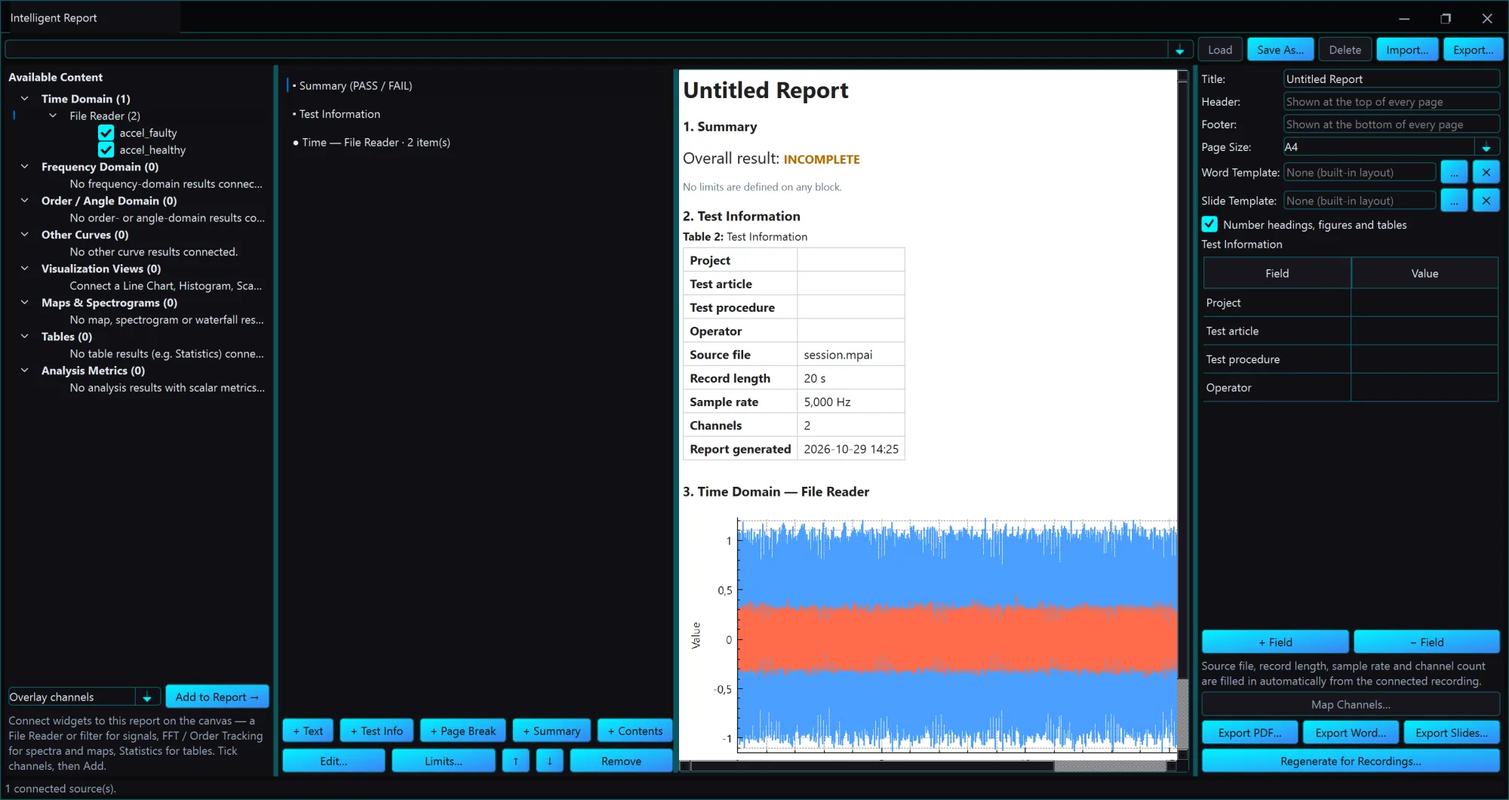
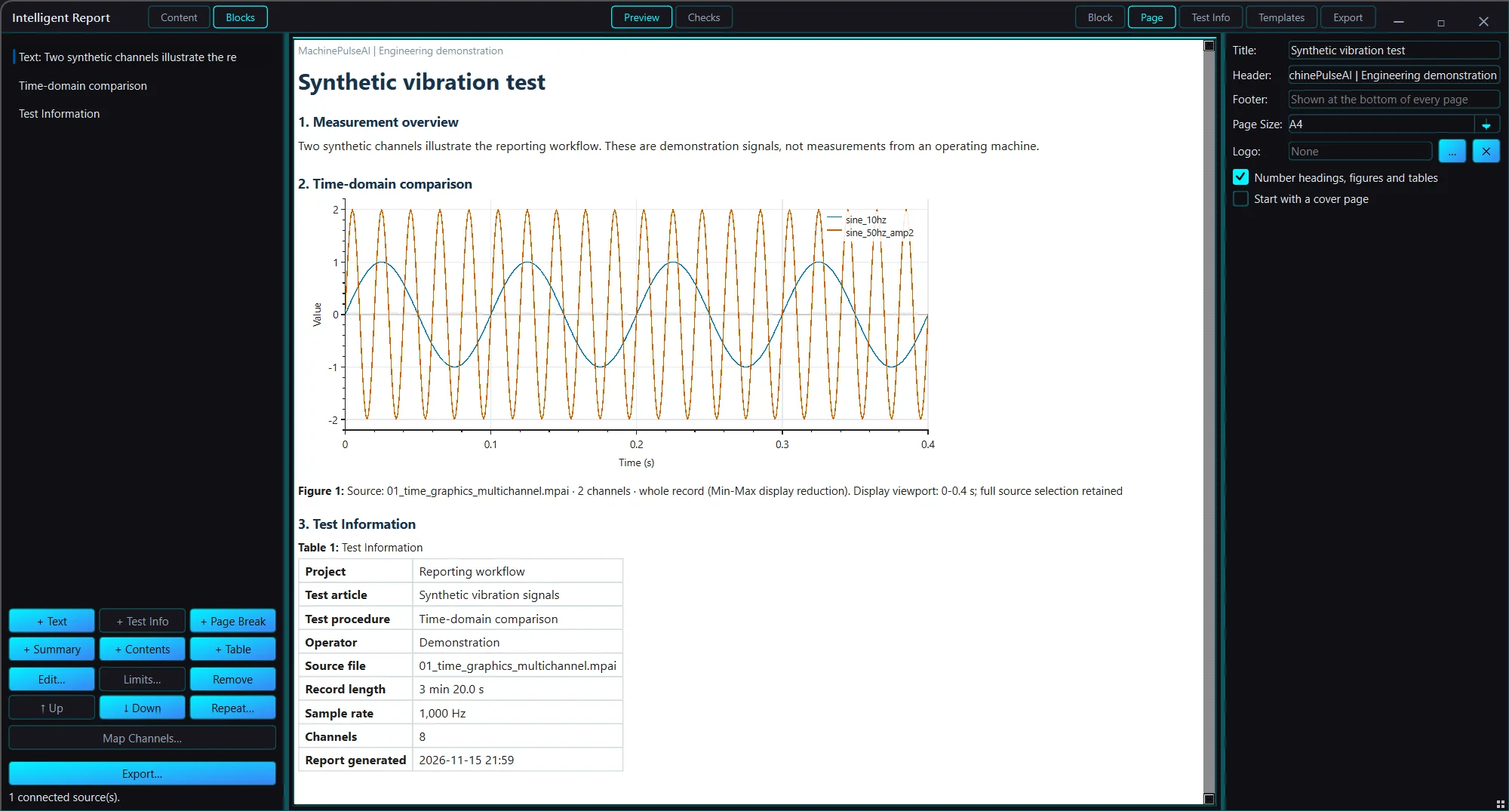
Refresh Report interface imagery and surface case studies

diff --git a/src/data/learning/tours/views.js b/src/data/learning/tours/views.js
@@ -449,55 +449,91 @@ export default {
     intelligent_report: [
         {
             id: 'report',
-            tab: ['Report editor', 'Rapor editörü'],
+            tab: ['Blocks and Page', 'Blocks ve Page'],
             summary: [
-                'A first report built from a File Reader with two accelerometer channels: content on the left, structure in the middle, live preview, and page settings on the right.',
-                'İki ivmeölçer kanallı bir File Reader’dan kurulmuş ilk rapor: solda içerik, ortada yapı, canlı önizleme ve sağda sayfa ayarları.',
+                'The current three-region editor: Blocks on the left, Preview in the center and Page on the right. The report compares two synthetic channels over a 0–0.4 s display window; the connected recording remains the source.',
+                'Güncel üç bölmeli editör: solda Blocks, ortada Preview, sağda Page. Rapor iki sentetik kanalı 0–0,4 s görüntüleme aralığında karşılaştırır; bağlı kayıt kaynak olarak korunur.',
+            ],
+            points: [
+                pt('structure', ['Blocks', 'Blocks (bloklar)'], [
+                    'The report in page order: a measurement overview, the time-domain comparison and Test Information. Select a block to edit it; drag rows or use Up and Down to reorder them.',
+                    'Sayfa sırasıyla ölçüm özeti, zaman alanı karşılaştırması ve Test Information. Düzenlemek için bir blok seçin; sıralamak için satırları sürükleyin veya Up ve Down düğmelerini kullanın.',
+                ]),
+                pt('blocks', ['Block buttons', 'Blok düğmeleri'], [
+                    'Add text, test information, a page break, a summary, contents or a table. The Block tab on the right edits the selected block; Repeat reuses a block for other channels.',
+                    'Metin, test bilgisi, sayfa sonu, özet, içindekiler veya tablo ekleyin. Sağdaki Block sekmesi seçili bloğu düzenler; Repeat bir bloğu başka kanallar için tekrarlar.',
+                ]),
+                pt('limits', ['Limits', 'Sınırlar'], [
+                    'Select a compatible data block before defining an acceptance limit or spectral mask. Checks beside Preview lists the resulting verdicts and unresolved blocks; this demonstration has no acceptance limits.',
+                    'Kabul sınırı veya spektral maske tanımlamadan önce uygun bir veri bloğu seçin. Preview yanındaki Checks, sonuçları ve çözülemeyen blokları listeler; bu gösterimde kabul sınırı tanımlı değildir.',
+                ]),
+                pt('preview', ['Preview', 'Önizleme'], [
+                    'The linked time plot shows the 10 Hz and 50 Hz demonstration channels. Click a report block to select it; double-click a figure to edit its presentation. Preview and Checks share the center region.',
+                    'Bağlı zaman grafiği, 10 Hz ve 50 Hz gösterim kanallarını gösterir. Seçmek için bir rapor bloğuna tıklayın; sunumunu düzenlemek için şekle çift tıklayın. Preview ve Checks orta bölmeyi paylaşır.',
+                ]),
+                pt('title', ['Page settings', 'Sayfa ayarları'], [
+                    'Page contains the title, running header and footer, paper size, logo, numbering and optional cover page. Test Info, Templates and Export each have their own toolbar tab.',
+                    'Page; başlığı, üst ve alt bilgiyi, kâğıt boyutunu, logoyu, numaralandırmayı ve isteğe bağlı kapak sayfasını içerir. Test Info, Templates ve Export araç çubuğunda ayrı sekmelerdir.',
+                ]),
+            ],
+        },
+        {
+            id: 'content', tab: ['Content', 'Content (içerik)'],
+            summary: [
+                'Content replaces Blocks in the left region while the report preview stays visible.',
+                'Sol bölmede Blocks yerine Content açılır; rapor önizlemesi görünür kalır.',
             ],
             points: [
                 pt('content', ['Available Content', 'Mevcut içerik'], [
-                    'Everything connected to the report, grouped by kind. Here only Time Domain has entries; the other groups say what to connect to fill them.',
-                    'Rapora bağlı her şey, türüne göre gruplanmış. Burada yalnızca Time Domain’de girdi var; diğer gruplar onları doldurmak için neyin bağlanacağını söylüyor.',
+                    'Connected results are grouped by kind. Here Time Domain contains the File Reader channels; empty groups explain which upstream tool to connect. Use the search field to find an item.',
+                    'Bağlı sonuçlar türüne göre gruplanır. Burada Time Domain, File Reader kanallarını içerir; boş gruplar bağlanması gereken aracı açıklar. Bir öğeyi bulmak için arama alanını kullanın.',
                 ]),
                 pt('add', ['Add to Report', 'Rapora ekle'], [
-                    'Adds the ticked items. With Overlay channels they share one figure.',
-                    'İşaretli öğeleri ekler. Overlay channels ile tek bir şekli paylaşırlar.',
+                    'Tick channels, choose Overlay channels or separate figures, then Add to Report. Add All Connected builds a first draft from all connected sources.',
+                    'Kanalları işaretleyin, Overlay channels veya ayrı şekilleri seçip Add to Report’a basın. Add All Connected tüm bağlı kaynaklardan ilk taslağı oluşturur.',
                 ]),
-                pt('structure', ['Structure', 'Yapı'], [
-                    'The blocks in page order: Summary, Test Information and one time figure with two items.',
-                    'Sayfa sırasına göre bloklar: Summary, Test Information ve iki öğeli bir zaman şekli.',
-                ]),
-                pt('blocks', ['Block buttons', 'Blok düğmeleri'], [
-                    'Add text, test information, a page break, a summary or a table of contents.',
-                    'Metin, test bilgisi, sayfa sonu, özet veya içindekiler tablosu ekleyin.',
-                ]),
-                pt('limits', ['Limits', 'Sınırlar'], [
-                    'Gives the selected block a requirement. Without any limits the summary stays INCOMPLETE, as in the preview.',
-                    'Seçili bloğa bir gereksinim verir. Hiç sınır yoksa özet önizlemedeki gibi INCOMPLETE kalır.',
-                ]),
-                pt('preview', ['Preview', 'Önizleme'], [
-                    'The report as it will be exported: numbered sections, “Table 2: Test Information” and the time figure.',
-                    'Raporun dışa aktarılacağı hali: numaralı bölümler, “Table 2: Test Information” ve zaman şekli.',
-                ]),
-                pt('title', ['Title, header, footer', 'Başlık, üst ve alt bilgi'], [
-                    'Text printed on the title and on every page; Page Size sets A4 or another format.',
-                    'Başlığa ve her sayfaya basılan metin; Page Size A4 veya başka bir biçim belirler.',
-                ]),
-                pt('templates', ['Word and slide templates', 'Word ve sunu şablonları'], [
-                    'Apply your company layout to the Word and slide exports.',
-                    'Word ve sunu çıktılarına şirket yerleşiminizi uygulayın.',
-                ]),
+            ],
+        },
+        {
+            id: 'test_info', tab: ['Test Info', 'Test Info (test bilgisi)'],
+            summary: [
+                'Test Info has a separate settings page; its fields appear in the report’s Test Information table.',
+                'Test Info ayrı bir ayar sayfasıdır; alanları raporun Test Information tablosunda görünür.',
+            ],
+            points: [
                 pt('testinfo', ['Test Information', 'Test bilgisi'], [
-                    'Type project, test article, procedure and operator. Source file, record length (20 s), sample rate (5,000 Hz) and channel count are filled in automatically.',
-                    'Proje, test parçası, prosedür ve operatörü yazın. Kaynak dosya, kayıt uzunluğu (20 s), örnekleme hızı (5.000 Hz) ve kanal sayısı otomatik doldurulur.',
+                    'Enter the project, test article, procedure and operator. The connected demonstration recording supplies the source file, 3 min 20 s duration, 1,000 Hz sample rate and eight-channel count automatically.',
+                    'Proje, test parçası, prosedür ve operatörü girin. Bağlı gösterim kaydı; kaynak dosyayı, 3 dk 20 s süreyi, 1.000 Hz örnekleme hızını ve sekiz kanal bilgisini otomatik sağlar.',
                 ]),
-                pt('exports', ['Export PDF, Word, Slides', 'PDF, Word, Slides dışa aktarma'], [
-                    'Writes the report in the chosen format.',
-                    'Raporu seçilen biçimde yazar.',
+            ],
+        },
+        {
+            id: 'templates', tab: ['Templates', 'Templates (şablonlar)'],
+            summary: [
+                'Reusable report layouts have their own Templates page, separate from page settings and export options.',
+                'Yeniden kullanılabilir rapor yerleşimleri, sayfa ayarları ve çıktı seçeneklerinden ayrı Templates sayfasındadır.',
+            ],
+            points: [
+                pt('templates', ['Report templates', 'Rapor şablonları'], [
+                    'Save the current layout as a named template, load an existing one or exchange .mprt template files with Import and Export. Word and slide document templates are chosen on Export.',
+                    'Mevcut yerleşimi adlandırılmış şablon olarak kaydedin, kayıtlı bir şablonu açın veya Import ve Export ile .mprt şablonlarını paylaşın. Word ve sunu belge şablonları Export sayfasında seçilir.',
+                ]),
+            ],
+        },
+        {
+            id: 'export', tab: ['Export', 'Export (dışa aktarma)'],
+            summary: [
+                'Export brings output format, company document templates and regeneration together on the right.',
+                'Export; çıktı biçimini, şirket belge şablonlarını ve yeniden üretmeyi sağ bölmede toplar.',
+            ],
+            points: [
+                pt('exports', ['Export report', 'Raporu dışa aktar'], [
+                    'Export opens the format and destination chooser for PDF, Word or PowerPoint. The Word Template and Slide Template fields below it apply a company document layout; editable PowerPoint charts are optional.',
+                    'Export; PDF, Word veya PowerPoint için biçim ve hedef seçimini açar. Altındaki Word Template ve Slide Template alanları şirket belge yerleşimini uygular; düzenlenebilir PowerPoint grafikleri isteğe bağlıdır.',
                 ]),
                 pt('regenerate', ['Regenerate for Recordings', 'Kayıtlar için yeniden üret'], [
-                    'Produces the same report for other recordings; Map Channels says which channel takes which role in each.',
-                    'Aynı raporu diğer kayıtlar için üretir; Map Channels her birinde hangi kanalın hangi rolü aldığını söyler.',
+                    'Reuse the report layout for other recordings. Check channel mapping before generating the batch, especially when channel names differ.',
+                    'Rapor yerleşimini diğer kayıtlar için kullanın. Özellikle kanal adları farklıysa toplu üretimden önce kanal eşlemesini kontrol edin.',
                 ]),
             ],
         },

diff --git a/src/data/learning/workflow.js b/src/data/learning/workflow.js
@@ -28,21 +28,21 @@ const records = [
                 'Groups the connected results: Time Domain, Frequency Domain, Order / Angle Domain, Other Curves, Visualization Views, Maps & Spectrograms, Tables and Analysis Metrics. A group shows (0) and a hint when nothing of that kind is connected. Overlay channels puts the ticked channels into one figure instead of one figure each.',
                 'Bağlı sonuçları gruplar: Time Domain, Frequency Domain, Order / Angle Domain, Other Curves, Visualization Views, Maps & Spectrograms, Tables ve Analysis Metrics. O türden hiçbir şey bağlı değilse grup (0) ve bir ipucu gösterir. Overlay channels işaretli kanalları her biri ayrı bir şekil yerine tek bir şekle koyar.'],
             ['Report structure', 'Rapor yapısı',
-                'The list of blocks in page order.',
-                'Sayfa sırasına göre blok listesi.', [
+                'The Blocks tab lists the report in page order. Select a block to edit it on the right under Block, or double-click its figure in Preview.',
+                'Blocks sekmesi raporu sayfa sırasıyla listeler. Bir bloğu seçip sağdaki Block bölümünde düzenleyin veya Preview içindeki şekline çift tıklayın.', [
                     ['+ Text, + Test Info, + Summary, + Contents, + Page Break', '+ Text, + Test Info, + Summary, + Contents, + Page Break', 'Add a free text block, the test information table, the pass/fail summary, a table of contents or a page break.', 'Serbest bir metin bloğu, test bilgi tablosu, geçti/kaldı özeti, içindekiler tablosu veya sayfa sonu ekler.'],
                     ['Edit, ↑ ↓, Remove', 'Edit, ↑ ↓, Remove', 'Change a block’s title or text, move it, or delete it.', 'Bir bloğun başlığını veya metnini değiştirin, taşıyın veya silin.'],
                     ['Limits', 'Limits (sınırlar)', 'Defines limits for a block, for example a maximum RMS or a spectral mask. Each block with limits gets a PASS or FAIL; blocks without limits leave the summary INCOMPLETE.', 'Bir blok için sınırlar tanımlar; örneğin en büyük RMS veya bir spektral maske. Sınırı olan her blok PASS veya FAIL alır; sınırı olmayan bloklar özeti INCOMPLETE bırakır.'],
                 ]],
             ['Page settings and templates', 'Sayfa ayarları ve şablonlar',
-                'Title, header, footer and page size. Word Template and Slide Template apply a company layout to the Word and slide exports. Number headings, figures and tables adds numbering such as “Table 2”.',
-                'Başlık, üst bilgi, alt bilgi ve sayfa boyutu. Word Template ve Slide Template, Word ve sunu çıktılarına bir şirket yerleşimi uygular. Number headings, figures and tables “Table 2” gibi numaralandırma ekler.'],
+                'Page holds the title, running header and footer, page size, logo, numbering and cover-page option. Templates saves, loads, imports and exports reusable report layouts. Company Word and slide templates are chosen on Export.',
+                'Page; başlığı, üst ve alt bilgiyi, sayfa boyutunu, logoyu, numaralandırmayı ve kapak seçeneğini içerir. Templates yeniden kullanılabilir rapor yerleşimlerini kaydeder, açar, içe ve dışa aktarır. Şirket Word ve sunu şablonları Export bölümünde seçilir.'],
             ['Test Information', 'Test Information (test bilgisi)',
                 'Project, test article, procedure and operator are typed in; source file, record length, sample rate and channel count are filled in automatically from the connected recording. + Field and − Field add or remove rows.',
                 'Proje, test parçası, prosedür ve operatör elle yazılır; kaynak dosya, kayıt uzunluğu, örnekleme hızı ve kanal sayısı bağlı kayıttan otomatik doldurulur. + Field ve − Field satır ekler veya siler.'],
             ['Export and Regenerate', 'Export ve Regenerate',
-                'Export PDF, Export Word and Export Slides write the report. Report layouts can be saved, loaded, imported and exported from the bar at the top. Regenerate for Recordings applies the same report to other recordings; Map Channels tells it which channel in each recording plays which role.',
-                'Export PDF, Export Word ve Export Slides raporu yazar. Rapor yerleşimleri üstteki çubuktan kaydedilebilir, yüklenebilir, içe ve dışa aktarılabilir. Regenerate for Recordings aynı raporu diğer kayıtlara uygular; Map Channels her kayıtta hangi kanalın hangi rolü oynadığını söyler.'],
+                'Export opens the format and destination chooser for PDF, Word or PowerPoint. The Export page also contains company document templates and Regenerate for Recordings. Check channel mapping before applying the same layout to other recordings.',
+                'Export; PDF, Word veya PowerPoint için biçim ve hedef seçimini açar. Export sayfası şirket belge şablonlarını ve Regenerate for Recordings seçeneğini de içerir. Aynı yerleşimi başka kayıtlara uygulamadan önce kanal eşlemesini kontrol edin.'],
         ],
         concepts: [
             ['A number needs its context', 'Bir sayı bağlamını ister', '“RMS 4.2” means nothing on its own. The same value with the sensor, the time interval, the statistic and the unit (“DE bearing, 10–20 s, RMS, 4.2 mm/s”) can be checked and compared. The automatic test information and figure captions carry most of that context for you.', '“RMS 4,2” tek başına hiçbir şey ifade etmez. Aynı değer sensör, zaman aralığı, istatistik ve birimle (“DE yatak, 10–20 s, RMS, 4,2 mm/s”) kontrol edilebilir ve karşılaştırılabilir. Otomatik test bilgisi ve şekil açıklamaları bu bağlamın çoğunu sizin için taşır.'],
@@ -59,9 +59,9 @@ const records = [
         outputs: [
             ['Test report', 'Test raporu', 'PDF, Word or slide file with numbered figures and tables, test information and a pass/fail summary.', 'Numaralı şekiller ve tablolar, test bilgisi ve geçti/kaldı özeti içeren PDF, Word veya sunu dosyası.'],
         ],
-        example: ['A first report from a File Reader', 'Bir File Reader’dan ilk rapor', 'Summary INCOMPLETE · 20 s · 5,000 Hz · 2 channels', 'Özet INCOMPLETE · 20 s · 5.000 Hz · 2 kanal',
-            'With only a File Reader connected, the report holds a summary, the test information and one time figure of accel_faulty and accel_healthy. The record length, sample rate and channel count were filled in automatically. The summary is INCOMPLETE because no block has limits yet: add an RMS limit to the time block and it becomes PASS or FAIL.',
-            'Yalnızca bir File Reader bağlıyken rapor bir özet, test bilgisi ve accel_faulty ile accel_healthy’nin bir zaman şeklini içeriyor. Kayıt uzunluğu, örnekleme hızı ve kanal sayısı otomatik dolduruldu. Özet INCOMPLETE, çünkü henüz hiçbir blokta sınır yok: zaman bloğuna bir RMS sınırı ekleyin, PASS veya FAIL olur.'],
+        example: ['A first report from a File Reader', 'Bir File Reader’dan ilk rapor', '200 s · 1,000 Hz · 8 source channels', '200 s · 1.000 Hz · 8 kaynak kanalı',
+            'The current screenshots use an eight-channel synthetic recording. The report contains an overview, an overlay of sine_10hz and sine_50hz_amp2, and Test Information populated from the connected source. The figure displays 0–0.4 s while retaining the full source selection. No acceptance limits or pass/fail claim have been added.',
+            'Güncel ekran görüntüleri sekiz kanallı sentetik bir kayıt kullanır. Rapor; açıklamayı, sine_10hz ve sine_50hz_amp2 kanallarının üst üste çizimini ve bağlı kayıttan doldurulan Test Information tablosunu içerir. Şekil 0–0,4 s aralığını gösterir; tam kaynak seçimi korunur. Kabul sınırı veya geçti/kaldı iddiası eklenmemiştir.'],
         pitfalls: [
             ['Reporting stale results', 'Eski sonuçları raporlamak', 'Recompute upstream before exporting; the report shows what the widgets hold now.', 'Dışa aktarmadan önce önceki düğümleri yeniden hesaplayın; rapor widget’ların şu anda tuttuğunu gösterir.'],
             ['Regenerating with wrong mapping', 'Yanlış eşlemeyle yeniden üretmek', 'A channel with the same name may sit at another location in another campaign. Check Map Channels.', 'Aynı adlı bir kanal başka bir kampanyada başka bir konumda olabilir. Map Channels’ı kontrol edin.'],

diff --git a/src/i18n/siteMarketing.js b/src/i18n/siteMarketing.js
@@ -60,18 +60,21 @@ export default {
                     summary: 'Use the native MPAI container for recorded measurements and project results.',
                     description: 'The native C++ engine handles numerical processing. Disk-backed MPAI access and Min-Max plots support exploring dense recordings while preserving signal peaks.',
                     detail: 'Phase 1 focuses on recorded-data analysis. Live acquisition is planned for a later phase.', link: 'Browse available modules',
+                    alt: 'MachinePulseAI canvas showing connected tools and the workflow activity panel.',
                 },
                 assistant: {
                     title: 'Add AI assistance when useful',
                     summary: 'Ask about methods or get help carrying out selected analysis steps.',
                     description: 'Ask mode explains methods and queries data without changing the workflow. Agent mode can help connect tools, run analyses and prepare reports.',
                     detail: 'AI is optional. Supported models vary in capability; inspect the resulting settings and evidence before using conclusions.',
+                    alt: 'The AI Assistant beside the connected analysis workflow, with Ask and Agent modes.',
                 },
                 privacy: {
                     title: 'Choose how your assistant connects',
                     summary: 'Choose supported local or cloud models for your deployment.',
                     description: 'Use a compatible model on your own computer or choose a supported cloud provider. Local Only Mode blocks cloud-provider connections.',
                     detail: 'Local models need a compatible runtime and sufficient memory. Cloud use depends on the chosen provider and its data policies.',
+                    alt: 'The assistant settings showing the local server address and Local Only Mode.',
                 },
             },
             workflow: {
@@ -202,18 +205,21 @@ export default {
                     summary: 'Kayıtlı ölçümler ve proje sonuçları için yerel MPAI konteynerini kullanın.',
                     description: 'Sayısal işlemleri yerel C++ motoru yürütür. Disk tabanlı MPAI erişimi ve Min-Max grafikler, sinyal tepelerini koruyarak yoğun kayıtları incelemenizi destekler.',
                     detail: 'İlk faz kayıtlı veri analizine odaklanır. Canlı veri toplama sonraki bir faz için planlanmaktadır.', link: 'Kullanılabilir modüllere göz atın',
+                    alt: 'Bağlı araçları ve iş akışı etkinlik panelini gösteren MachinePulseAI kanvası.',
                 },
                 assistant: {
                     title: 'Gerektiğinde AI desteği alın',
                     summary: 'Yöntemler hakkında soru sorun veya seçtiğiniz analiz adımlarını yürütürken destek alın.',
                     description: 'Ask modu, iş akışını değiştirmeden yöntemleri açıklar ve veriyi sorgular. Agent modu araçları bağlama, analizleri çalıştırma ve rapor hazırlama adımlarında yardımcı olabilir.',
                     detail: 'AI kullanımı isteğe bağlıdır. Desteklenen modellerin yetenekleri farklıdır; sonuçları kullanmadan önce ayarları ve dayanakları inceleyin.',
+                    alt: 'Bağlı analiz akışının yanında Ask ve Agent modlarıyla AI Assistant.',
                 },
                 privacy: {
                     title: 'Asistanın bağlantısını siz seçin',
                     summary: 'Kurulumunuza uygun, desteklenen yerel veya bulut modelini seçin.',
                     description: 'Kendi bilgisayarınızda uyumlu bir model kullanın veya desteklenen bulut sağlayıcılarından birini seçin. Local Only Mode, bulut sağlayıcı bağlantılarını engeller.',
                     detail: 'Yerel modeller uyumlu bir çalıştırma ortamı ve yeterli bellek gerektirir. Bulut kullanımı seçilen sağlayıcıya ve veri politikalarına bağlıdır.',
+                    alt: 'Yerel sunucu adresini ve Local Only Mode seçeneğini gösteren asistan ayarları.',
                 },
             },
             workflow: {

diff --git a/src/components/Features.jsx b/src/components/Features.jsx
@@ -4,14 +4,17 @@ import TourChapterLink from './TourChapterLink.jsx'
 import dataImage from '../assets/widget-tours/file-reader--csv.webp'
 import analysisImage from '../assets/widget-tours/fft-spectrum--compare.webp'
 import reportImage from '../assets/widget-tours/intelligent-report--report.webp'
+import workspaceImage from '../assets/product-workspace.webp'
+import assistantImage from '../assets/product-assistant.webp'
+import privacyImage from '../assets/product-model-privacy.webp'
 
 const FEATURES = [
     { id: 'prepare', image: dataImage, href: '/widgets/file-reader', chapterId: 'dataIO' },
     { id: 'analyze', image: analysisImage, href: '/widgets/fft-spectrum', chapterId: 'fft' },
     { id: 'report', image: reportImage, href: '/widgets/intelligent-report', chapterId: 'reports' },
-    { id: 'engine', href: '/widgets', chapterId: 'dataIO' },
-    { id: 'assistant', chapterId: 'assistant' },
-    { id: 'privacy', chapterId: 'assistant' },
+    { id: 'engine', image: workspaceImage, href: '/widgets', chapterId: 'dataIO' },
+    { id: 'assistant', image: assistantImage, chapterId: 'assistant' },
+    { id: 'privacy', image: privacyImage, chapterId: 'assistant' },
 ]
 
 /** Share concise homepage benefits and detailed, illustrated product capabilities. */
@@ -29,11 +32,9 @@ export default function Features({ compact = false }) {
                 <div className="grid grid-cols-1 md:grid-cols-3 gap-5">
                     {cards.map(({ id, image, href, chapterId }, index) => (
                         <article key={id} className="card-hover-glow rounded-2xl border border-white/10 bg-white/[0.02] overflow-hidden flex flex-col">
-                            {image && (
-                                <a href={image} target="_blank" rel="noreferrer" className="block focus-visible:outline focus-visible:outline-neon-cyan" aria-label={t('site.product.enlarge', { title: t(`site.product.cards.${id}.title`) })}>
-                                    <img src={image} alt={t(`site.product.cards.${id}.alt`)} loading="lazy" width="1200" height="800" className={`w-full ${compact ? 'aspect-video' : 'aspect-[3/2]'} object-contain bg-black`} />
-                                </a>
-                            )}
+                            <a href={image} target="_blank" rel="noreferrer" className="block focus-visible:outline focus-visible:outline-neon-cyan" aria-label={t('site.product.enlarge', { title: t(`site.product.cards.${id}.title`) })}>
+                                <img src={image} alt={t(`site.product.cards.${id}.alt`)} loading="lazy" width="1200" height="800" className={`w-full ${compact ? 'aspect-video' : 'aspect-[3/2]'} object-contain bg-black`} />
+                            </a>
                             <div className="p-6 flex flex-col gap-3 flex-1">
                                 <span className="text-xs font-semibold text-neon-cyan tabular-nums" aria-hidden="true">{String(index + 1).padStart(2, '0')}</span>
                                 <h3 className="text-lg font-semibold">{t(`site.product.cards.${id}.title`)}</h3>

diff --git a/src/data/learning/tours/tourAnchors.js b/src/data/learning/tours/tourAnchors.js
@@ -63,7 +63,11 @@ export default {
     'histogram_widget--settings': { binrule: ['5.1%', '8.0%'], range: ['4.4%', '19.2%'], yaxis: ['4.4%', '35.5%'], markers: ['5.1%', '47.4%'], fit: ['7.3%', '63.3%'], overlay: ['4.9%', '78.9%'], plot: ['50.0%', '9.0%'], stats: ['88.0%', '6.0%'] },
     'hypothesis_testing--onesample': { test: ['2.3%', '6.4%'], refmean: ['6.3%', '9.7%'], overview: ['45.0%', '6.5%'], table: ['30.0%', '21.0%'], compute: ['6.8%', '95.3%'] },
     'hypothesis_testing--welch': { test: ['2.3%', '6.4%'], table: ['30.0%', '21.0%'], findings: ['87.0%', '6.0%'] },
-    'intelligent_report--report': { content: ['7.6%', '9.6%'], add: ['14.4%', '87.0%'], structure: ['25.0%', '10.0%'], blocks: ['20.4%', '91.3%'], limits: ['29.4%', '95.0%'], preview: ['55.0%', '10.0%'], title: ['81.6%', '9.8%'], templates: ['85.2%', '21.5%'], testinfo: ['85.8%', '30.4%'], exports: ['82.8%', '91.5%'], regenerate: ['89.5%', '95.0%'] },
+    'intelligent_report--report': {"structure":["9.4%","39.5%"],"blocks":["3.4%","76.4%"],"preview":["49.9%","52.0%"],"title":["92.4%","6.0%"],"limits":["9.4%","83.6%"],"block_tab":["72.9%","2.0%"],"page_tab":["76.3%","2.0%"],"test_info_tab":["80.2%","2.0%"],"templates_tab":["84.9%","2.0%"],"export_tab":["89.3%","2.0%"]},
+    'intelligent_report--content': {"preview":["49.8%","52.0%"],"title":["92.4%","6.0%"],"content":["9.2%","42.3%"],"add":["14.4%","79.0%"],"block_tab":["72.9%","2.0%"],"page_tab":["76.3%","2.0%"],"test_info_tab":["80.2%","2.0%"],"templates_tab":["84.9%","2.0%"],"export_tab":["89.3%","2.0%"]},
+    'intelligent_report--test_info': {"structure":["9.2%","39.5%"],"blocks":["3.3%","76.4%"],"preview":["49.8%","52.0%"],"testinfo":["90.5%","48.3%"],"limits":["9.2%","83.6%"],"block_tab":["72.9%","2.0%"],"page_tab":["76.3%","2.0%"],"test_info_tab":["80.2%","2.0%"],"templates_tab":["84.9%","2.0%"],"export_tab":["89.3%","2.0%"]},
+    'intelligent_report--templates': {"structure":["9.4%","39.5%"],"blocks":["3.4%","76.4%"],"preview":["49.9%","52.0%"],"templates":["90.5%","14.9%"],"limits":["9.4%","83.6%"],"block_tab":["72.9%","2.0%"],"page_tab":["76.3%","2.0%"],"test_info_tab":["80.2%","2.0%"],"templates_tab":["84.9%","2.0%"],"export_tab":["89.3%","2.0%"]},
+    'intelligent_report--export': {"structure":["9.4%","39.5%"],"blocks":["3.4%","76.4%"],"preview":["49.9%","52.0%"],"exports":["90.5%","6.4%"],"regenerate":["90.5%","27.9%"],"limits":["9.4%","83.6%"],"block_tab":["72.9%","2.0%"],"page_tab":["76.3%","2.0%"],"test_info_tab":["80.2%","2.0%"],"templates_tab":["84.9%","2.0%"],"export_tab":["89.3%","2.0%"]},
     'kalman_filter--graph': { parameters: ['9.5%', '6.4%'], mode: ['8.7%', '25.0%'], output: ['5.2%', '43.9%'], graph: ['54.5%', '17.8%'], channels: ['94.4%', '8.8%'], apply: ['10.1%', '94.0%'] },
     'kinematics_6dof--integration': { integration: ['6.0%', '22.1%'], drift: ['9.0%', '32.1%'], outputs: ['8.4%', '43.8%'], displacement: ['52.1%', '24.4%'] },
     'kinematics_6dof--markers': { interaction: ['7.9%', '6.4%'], time_markers: ['7.2%', '15.3%'], velocity: ['52.1%', '24.4%'], table: ['93.7%', '9.8%'] },

diff --git a/src/i18n/caseStudies.js b/src/i18n/caseStudies.js
@@ -1,6 +1,7 @@
 export default {
     en: {
         eyebrow: 'The Agent at work',
+        explore: 'Watch the aircraft and automotive case studies',
         title: 'Give the Agent the problem and your test recordings',
         description: 'See local Qwen3 Coder 30B open recordings, build analysis workflows and compare possible causes in aircraft and automotive cases. RAG brings the applicable reference documents into the investigation. Review the measured findings and the exported report.',
         report: 'Open the investigation report (PDF)',
@@ -17,6 +18,7 @@ export default {
     },
     tr: {
         eyebrow: 'Agent çalışırken',
+        explore: 'Hava aracı ve otomotiv vaka analizlerini izleyin',
         title: 'Problemi ve test kayıtlarınızı Agent’a verin',
         description: 'Yerel Qwen3 Coder 30B’nin hava aracı ve otomotiv vakalarında kayıtları açmasını, analiz akışını kurmasını ve olası nedenleri karşılaştırmasını izleyin. RAG, ilgili referans belgelerini incelemeye taşır. Ölçülen bulguları ve üretilen raporu birlikte değerlendirin.',
         report: 'İnceleme raporunu açın (PDF)',

diff --git a/src/components/Hero.jsx b/src/components/Hero.jsx
@@ -107,6 +107,14 @@ export default function Hero() {
 
                     <ProductTourLink />
                 </motion.div>
+                <motion.a
+                    variants={fadeUpVariant}
+                    href="#agent-case-studies"
+                    className="mt-5 inline-flex items-center gap-2 text-sm font-semibold text-neon-cyan hover:text-white focus-visible:outline focus-visible:outline-offset-4 focus-visible:outline-neon-cyan"
+                >
+                    {t('caseStudies.explore')}
+                    <span aria-hidden="true">↓</span>
+                </motion.a>
             </motion.div>
 
             {/* ── Hero Media Area ────────────────────────────────── */}

diff --git a/src/data/learning/interfaceTours.js b/src/data/learning/interfaceTours.js
@@ -24,6 +24,7 @@ import VIEW_TOURS from './tours/views.js'
 const IMAGES = import.meta.glob('../../assets/widget-tours/*.webp', { eager: true, import: 'default' })
 
 // Captures are 2000 px wide at the application's 1600 x 848 window aspect.
+// Report's current minimum height is 860 logical pixels (1075 captured pixels).
 const SIZE = { width: 2000, height: 1060 }
 
 const TOURS = {
@@ -59,6 +60,7 @@ export function getInterfaceTour(widgetId, lang) {
             summary: view.summary?.[index],
             image,
             ...SIZE,
+            ...(widgetId === 'intelligent_report' ? { height: 1075 } : {}),
             points: view.points
                 .filter((point) => anchors[point.id])
                 .map((point) => ({

diff --git a/src/components/CaseStudyVideos.jsx b/src/components/CaseStudyVideos.jsx
@@ -10,7 +10,7 @@ export default function CaseStudyVideos() {
     const { open: openContact } = useContactModal()
     if (!CASE_STUDY_VIDEOS.length) return null
     return (
-        <section id="agent-case-studies" className="py-12 px-6" aria-labelledby="case-studies-title">
+        <section id="agent-case-studies" className="scroll-mt-24 py-12 px-6" aria-labelledby="case-studies-title">
             <div className="max-w-7xl mx-auto">
                 <div className="max-w-3xl mb-8">
                     <p className="text-xs uppercase tracking-widest text-neon-cyan mb-3">{t('caseStudies.eyebrow')}</p>

diff --git a/src/App.jsx b/src/App.jsx
@@ -100,10 +100,10 @@ function PageFallback() {
 const Home = () => (
     <main id="main">
         <Hero />
+        <CaseStudyVideos />
         <Stats />
         <WhySection />
         <Features compact />
-        <CaseStudyVideos />
         <Sectors />
         <VisionBand />
     </main>
